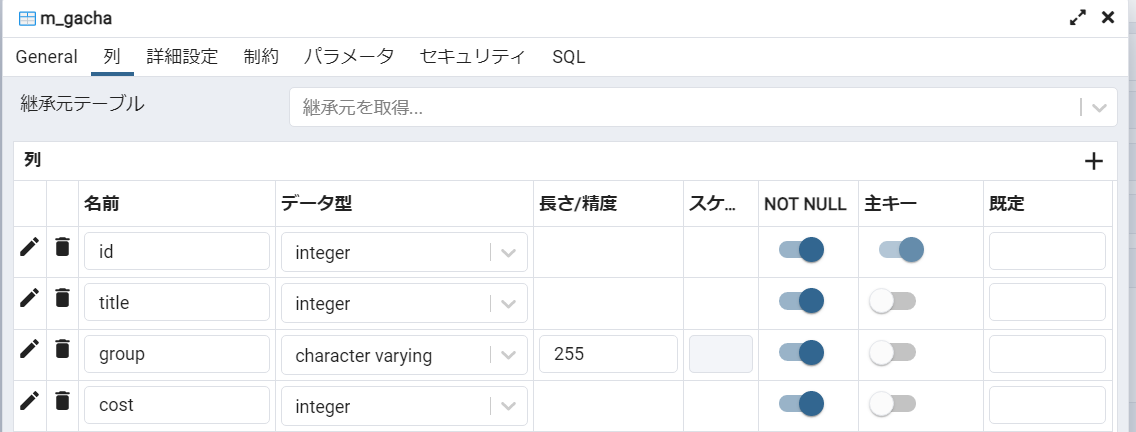
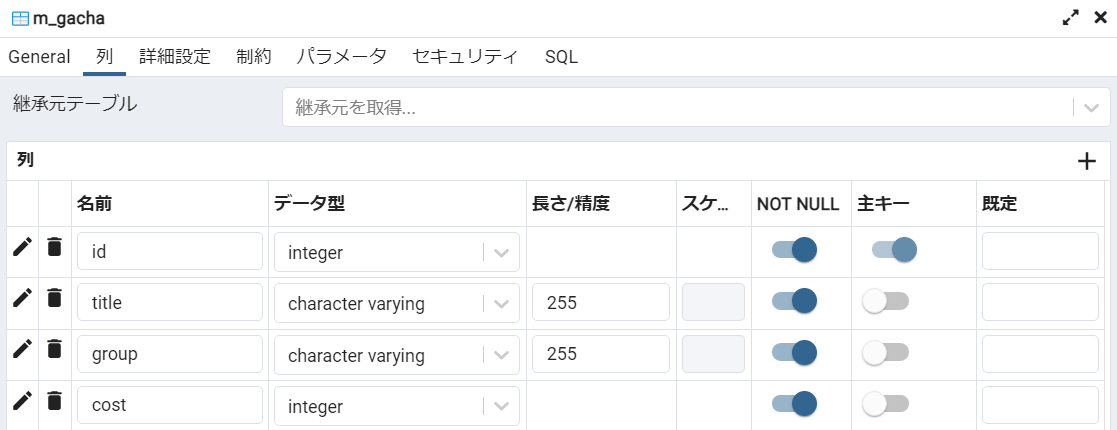
m_gachaテーブルのtitleの型を integer から varchar に修正

diff --git a/page/PgCSharpGacha/1_DBDesign/1_DBDesign.html b/page/PgCSharpGacha/1_DBDesign/1_DBDesign.html
@@ -60,7 +60,7 @@ m_gacha
         <td></td>
         <td></td>
         <td>title</td>
-        <td>INTEGER</td>
+        <td>VARCHAR(255)</td>
         <td>NOTNULL</td>
         <td></td>
         <td>ガチャタイトル</td>
